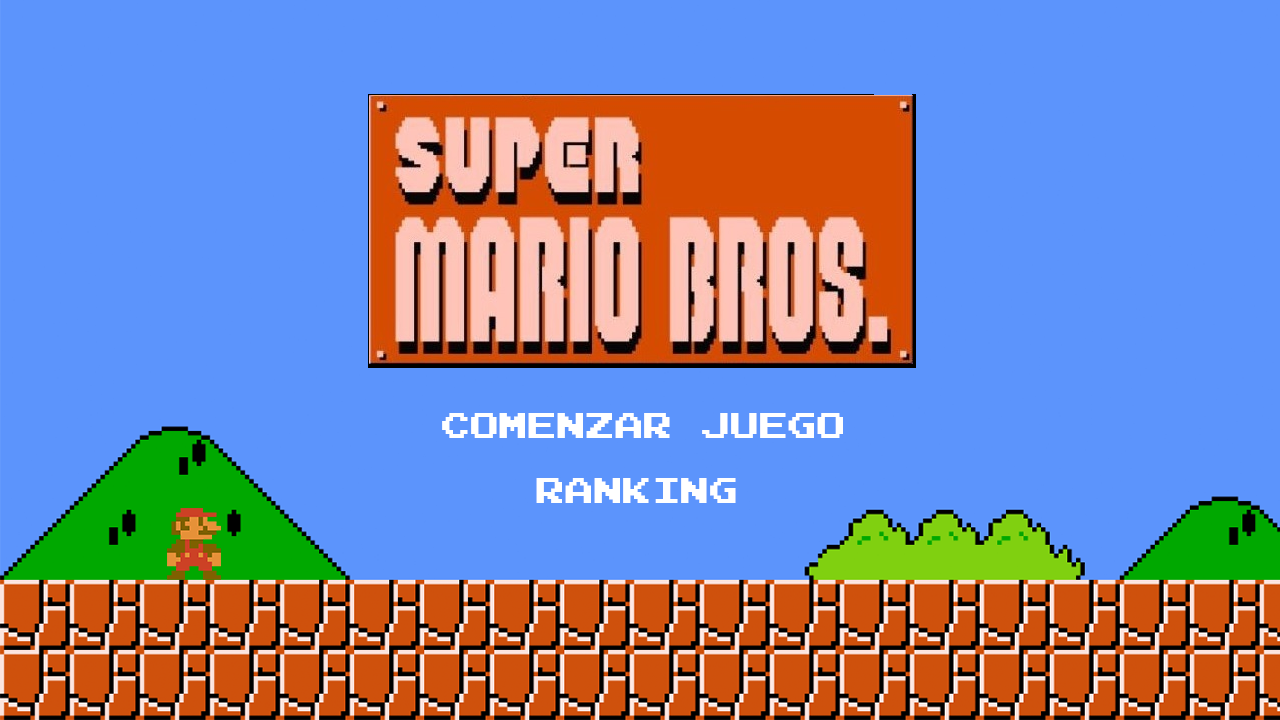
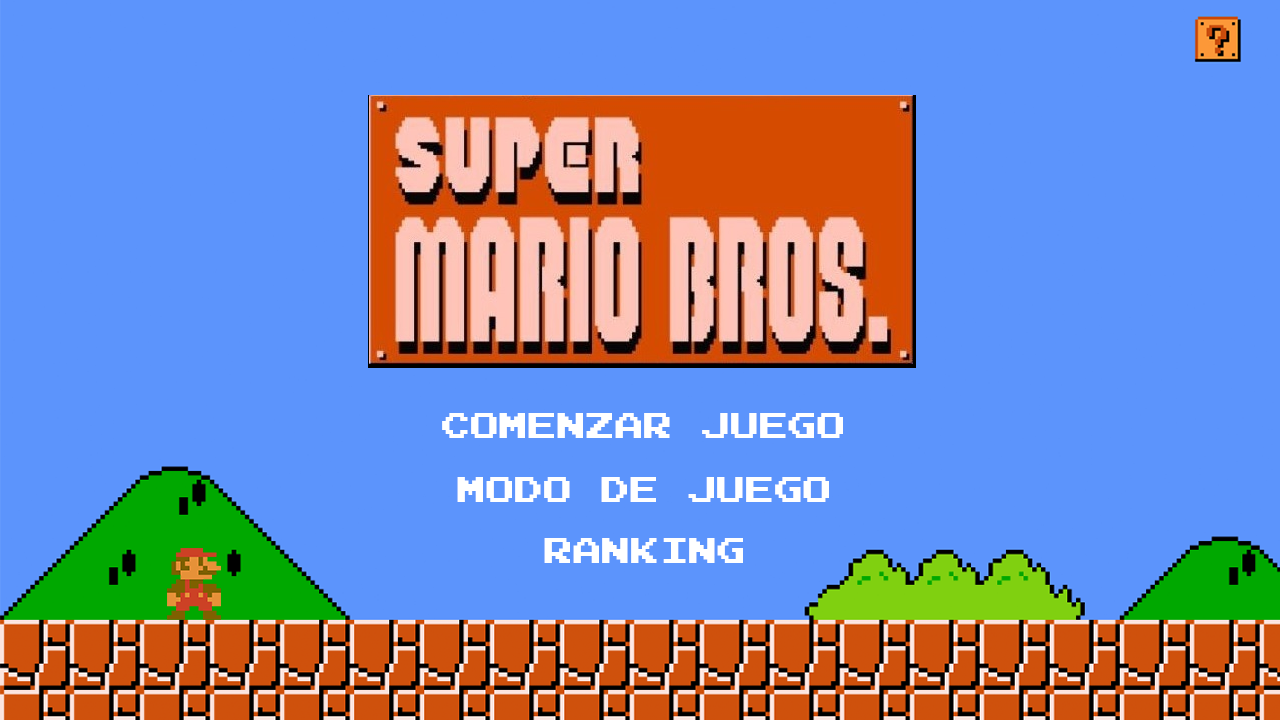
Incorpora menú de opciones

Changed region(s): [[0.0, 0.5806, 1.0, 1.0], [0.3438, 0.6417, 0.6562, 0.7028], [0.9062, 0.0, 0.9688, 0.0917]]

diff --git a/Fuentes/src/gui/PanelPantallaPrincipal.java b/Fuentes/src/gui/PanelPantallaPrincipal.java
@@ -2,8 +2,6 @@ package gui;
 
 import java.awt.Dimension;
 import java.awt.Image;
-import java.awt.event.ActionEvent;
-import java.awt.event.ActionListener;
 import javax.swing.Icon;
 import javax.swing.ImageIcon;
 import javax.swing.JButton;
@@ -15,33 +13,40 @@ public class PanelPantallaPrincipal extends JPanel {
     private static final long serialVersionUID = -3884090044789061650L;
     private ControladorDeVistas controlador_vistas;
     private JLabel imagen_fondo;
+    private JLabel icono_seleccion;
     private JButton boton_iniciar;
     private JButton boton_puntajes;
-    private MenuOption opcionActual;
+    private JButton boton_modo_de_juego; 
+    private JButton boton_ayuda; 
+    private MenuOpciones opcionActual;
 
-    public enum MenuOption {
-        START_GAME,
-        VIEW_SCORES;
+    public enum MenuOpciones {
+        COMENZAR_JUEGO,
+        MODO_DE_JUEGO,
+        RANKING;
 
-        public MenuOption next() {
+        public MenuOpciones next() {
             return values()[(ordinal() + 1) % values().length];
         }
 
-        public MenuOption previous() {
+        public MenuOpciones previous() {
             return values()[(ordinal() - 1 + values().length) % values().length];
         }
     }
 
     public PanelPantallaPrincipal(ControladorDeVistas controlador_vistas) {
         this.controlador_vistas = controlador_vistas;
-        this.opcionActual = MenuOption.START_GAME;
+        this.opcionActual = MenuOpciones.COMENZAR_JUEGO;
         setSize(ConstantesVistas.PANEL_ANCHO, ConstantesVistas.PANEL_ALTO);
-        
         setLayout(null);
+
+        agregar_icono_seleccion();
         agregar_boton_iniciar();
         agregar_boton_puntaje();
+        agregar_boton_modo_de_juego();
+        agregar_boton_ayuda();
         agregar_imagen_fondo();
-        actualizarSeleccion();
+        actualizar_icono_seleccion();
     }
 
     protected void agregar_imagen_fondo() {
@@ -51,49 +56,74 @@ public class PanelPantallaPrincipal extends JPanel {
         Icon icono_imagen_escalado = new ImageIcon(imagen_escalada);
         imagen_fondo.setIcon(icono_imagen_escalado);
         setPreferredSize(new Dimension(ConstantesVistas.PANEL_ANCHO, ConstantesVistas.PANEL_ALTO));
-
         imagen_fondo.setBounds(0, 0, ConstantesVistas.PANEL_ANCHO, ConstantesVistas.PANEL_ALTO);
         add(imagen_fondo);
     }
 
+    protected void agregar_icono_seleccion() {
+        ImageIcon icono_original = new ImageIcon(this.getClass().getResource("/assets/imagenes/icono-seleccion.png"));
+        Image imagen_escalada = icono_original.getImage().getScaledInstance(25, 25, Image.SCALE_SMOOTH);
+        icono_seleccion = new JLabel(new ImageIcon(imagen_escalada));
+        icono_seleccion.setBounds(0, 0, 25, 25);
+        add(icono_seleccion);
+    }
+
+    protected void actualizar_icono_seleccion() {
+        int xOffset = (ConstantesVistas.PANEL_ANCHO / 2) - 240;
+        int yOffset = 0;
+
+        switch (opcionActual) {
+            case COMENZAR_JUEGO:
+                yOffset = ConstantesVistas.PANEL_ALTO - 320 + 10;
+                break;
+            case MODO_DE_JUEGO:
+                yOffset = ConstantesVistas.PANEL_ALTO - 255 + 10;
+                break;
+            case RANKING:
+                yOffset = ConstantesVistas.PANEL_ALTO - 195 + 10;
+                break;
+        }
+        icono_seleccion.setLocation(xOffset, yOffset);
+    }
+
     protected void agregar_boton_iniciar() {
-        boton_iniciar = new JButton("Comenzar Juego");
-        decorar_boton_iniciar();
+        boton_iniciar = new JButton(" ");
+        transparentar_boton(boton_iniciar);
+        boton_iniciar.setBounds((ConstantesVistas.PANEL_ANCHO / 2) - 200, ConstantesVistas.PANEL_ALTO - 320, 400, 50);
         registrar_oyente_boton_iniciar();
         add(boton_iniciar);
     }
 
     protected void agregar_boton_puntaje() {
         boton_puntajes = new JButton("Ranking");
-        decorar_boton_puntajes();
+        transparentar_boton(boton_puntajes);
+        boton_puntajes.setBounds((ConstantesVistas.PANEL_ANCHO / 2) - 180, ConstantesVistas.PANEL_ALTO - 255, 360, 50);
         registrar_oyente_boton_puntajes();
         add(boton_puntajes);
     }
 
-    protected void decorar_boton_iniciar() {
-        transparentar_boton(boton_iniciar);
-        boton_iniciar.setBounds((ConstantesVistas.PANEL_ANCHO / 2) - 180, ConstantesVistas.PANEL_ALTO - 320, 350, 50);
+    protected void agregar_boton_modo_de_juego() {
+        boton_modo_de_juego = new JButton("Modo de Juego");
+        transparentar_boton(boton_modo_de_juego);
+        boton_modo_de_juego.setBounds((ConstantesVistas.PANEL_ANCHO / 2) - 180, ConstantesVistas.PANEL_ALTO - 195, 350, 50);
+        boton_modo_de_juego.addActionListener(e -> controlador_vistas.accionar_pantalla_modo_juego());
+        add(boton_modo_de_juego);
     }
 
-    protected void decorar_boton_puntajes() {
-        transparentar_boton(boton_puntajes);
-        boton_puntajes.setBounds((ConstantesVistas.PANEL_ANCHO / 2) - 180, ConstantesVistas.PANEL_ALTO - 250, 360, 50);
+    protected void agregar_boton_ayuda() {
+        boton_ayuda = new JButton(" ");
+        transparentar_boton(boton_ayuda);
+        boton_ayuda.setBounds(ConstantesVistas.PANEL_ANCHO - 180, 15, 150, 50);
+        boton_ayuda.addActionListener(e -> controlador_vistas.accionar_pantalla_ayuda());
+        add(boton_ayuda);
     }
 
     protected void registrar_oyente_boton_iniciar() {
-        boton_iniciar.addActionListener(new ActionListener() {
-            public void actionPerformed(ActionEvent e) {
-                controlador_vistas.accionar_inicio_juego();
-            }
-        });
+        boton_iniciar.addActionListener(e -> controlador_vistas.accionar_inicio_juego());
     }
 
     protected void registrar_oyente_boton_puntajes() {
-        boton_puntajes.addActionListener(new ActionListener() {
-            public void actionPerformed(ActionEvent e) {
-                controlador_vistas.accionar_pantalla_puntajes();
-            }
-        });
+        boton_puntajes.addActionListener(e -> controlador_vistas.accionar_pantalla_puntajes());
     }
 
     protected void transparentar_boton(JButton boton) {
@@ -102,17 +132,26 @@ public class PanelPantallaPrincipal extends JPanel {
         boton.setBorderPainted(false);
     }
 
-    public void moverSeleccion(boolean haciaArriba) {
+    protected void mover_seleccion(boolean haciaArriba) {
         if (haciaArriba) {
             opcionActual = opcionActual.previous();
         } else {
             opcionActual = opcionActual.next();
         }
-        actualizarSeleccion();
+        actualizar_icono_seleccion();
     }
 
-    private void actualizarSeleccion() {
-        boton_iniciar.setBorderPainted(opcionActual == MenuOption.START_GAME);
-        boton_puntajes.setBorderPainted(opcionActual == MenuOption.VIEW_SCORES);
+    protected void ejecutar_accion_seleccionada() {
+        switch (opcionActual) {
+            case COMENZAR_JUEGO:
+                controlador_vistas.accionar_inicio_juego();
+                break;
+            case MODO_DE_JUEGO:
+                controlador_vistas.accionar_pantalla_modo_juego();
+                break;
+            case RANKING:
+                controlador_vistas.accionar_pantalla_puntajes();
+                break;
+        }
     }
 }

diff --git a/Fuentes/src/gui/PanelPantallaAyuda.java b/Fuentes/src/gui/PanelPantallaAyuda.java
@@ -1,0 +1,47 @@
+package gui;
+
+import java.awt.Dimension;
+import java.awt.Image;
+import javax.swing.Icon;
+import javax.swing.ImageIcon;
+import javax.swing.JButton;
+import javax.swing.JLabel;
+import javax.swing.JPanel;
+
+public class PanelPantallaAyuda extends JPanel {
+
+    private static final long serialVersionUID = 1L;
+    private ControladorDeVistas controlador_vistas;
+    private JLabel imagen_fondo;
+    private JButton boton_volver;
+
+    public PanelPantallaAyuda(ControladorDeVistas controlador_vistas) {
+        this.controlador_vistas = controlador_vistas;
+        setSize(ConstantesVistas.PANEL_ANCHO, ConstantesVistas.PANEL_ALTO);
+        setLayout(null);
+        agregar_imagen_fondo();
+        agregar_boton_volver();
+    }
+
+    protected void agregar_imagen_fondo() {
+        imagen_fondo = new JLabel();
+        ImageIcon icono_imagen = new ImageIcon(this.getClass().getResource("/assets/imagenes/pantalla-ayuda.png"));
+        Image imagen_escalada = icono_imagen.getImage().getScaledInstance(ConstantesVistas.PANEL_ANCHO, ConstantesVistas.PANEL_ALTO, Image.SCALE_SMOOTH);
+        Icon icono_imagen_escalado = new ImageIcon(imagen_escalada);
+        imagen_fondo.setIcon(icono_imagen_escalado);
+        setPreferredSize(new Dimension(ConstantesVistas.PANEL_ANCHO, ConstantesVistas.PANEL_ALTO));
+        imagen_fondo.setBounds(0, 0, ConstantesVistas.PANEL_ANCHO, ConstantesVistas.PANEL_ALTO);
+        add(imagen_fondo);
+    }
+
+    protected void agregar_boton_volver() {
+        boton_volver = new JButton(" ");
+        boton_volver.setOpaque(false);
+        boton_volver.setContentAreaFilled(false);
+        boton_volver.setBorderPainted(false);
+        boton_volver.setBounds(ConstantesVistas.PANEL_ANCHO - 180, 15, 150, 50);
+        boton_volver.addActionListener(e -> controlador_vistas.mostrar_pantalla_inicial());
+        boton_volver.addActionListener(e -> controlador_vistas.registrar_oyente_ventana());
+        add(boton_volver);
+    }
+}

diff --git a/Fuentes/src/gui/PanelPantallaMapa.java b/Fuentes/src/gui/PanelPantallaMapa.java
@@ -18,12 +18,12 @@ public class PanelPantallaMapa extends JPanel {
 
     private static final long serialVersionUID = -1366756178696496543L;
     private JLabel imagen_fondo;
-    private JPanel panel_informacion; // Este panel se usará para los labels
+    private JPanel panel_informacion;
     private JLabel label_puntaje;
     private JLabel label_monedas;
     private JLabel label_nivel;
-    private JLabel label_tiempo; // Nueva etiqueta para mostrar el tiempo
-    private JLabel label_vidas;  // Nueva etiqueta para mostrar las vidas
+    private JLabel label_tiempo; 
+    private JLabel label_vidas;  
 
     /**
      * Constructor que inicializa el panel de pantalla del mapa.

diff --git a/Fuentes/src/logica/Juego.java b/Fuentes/src/logica/Juego.java
@@ -32,10 +32,7 @@ public class Juego implements Runnable {
         
         // Inicializa el controlador de vistas pasando el objeto Juego actual
         controlador_vistas = new ControladorDeVistas(this);
-        
-        // Mostrar la pantalla inicial a través del controlador de vistas
-        controlador_vistas.mostrar_pantalla_inicial();
-
+ 
         if (estaEjecutando) return;
         estaEjecutando = true;
         hilo = new Thread(this);
